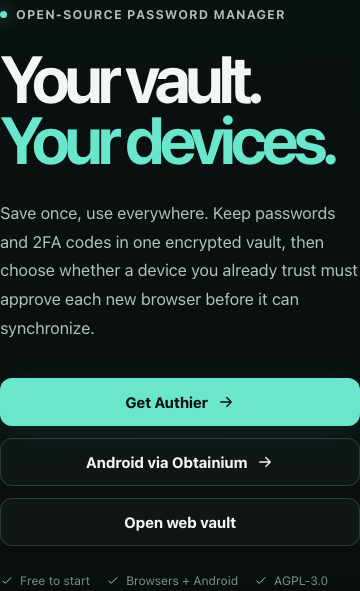
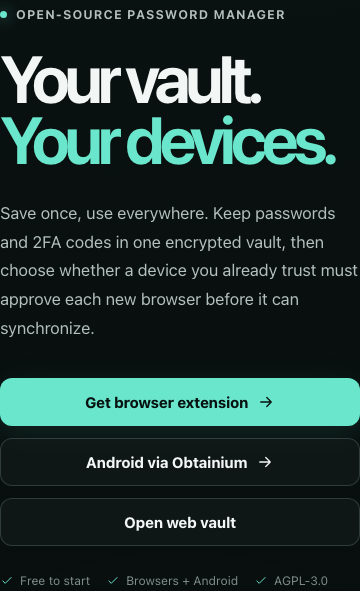
Clarify browser extension download buttons

Changed region(s): [[0.2444, 0.6701, 0.7028, 0.7005], [0.7333, 0.6701, 0.7639, 0.7005]]

diff --git a/web-extension/tests/ui-preview/androidUpdates.spec.ts b/web-extension/tests/ui-preview/androidUpdates.spec.ts
@@ -7,6 +7,13 @@ test('links the homepage hero, platform list and final call to action to Obtaini
   await page.setViewportSize({ width: 1440, height: 1100 })
   await page.goto('/?scenario=android-landing')
   const landing = page.frameLocator('iframe')
+  for (const selector of ['.hero-actions', '.header-actions']) {
+    await expect(
+      landing
+        .locator(selector)
+        .getByRole('link', { name: 'Get browser extension' })
+    ).toHaveAttribute('href', '/download#browsers')
+  }
   for (const selector of ['.hero-actions', '.signal-inner', '.cta-actions']) {
     await expect(
       landing.locator(selector).getByRole('link', { name: /Android/ })
@@ -39,6 +46,7 @@ test('offers the configured Obtainium setup on desktop and mobile', async ({
   await page.setViewportSize({ width: 1440, height: 1000 })
   await page.goto('/?scenario=android-updates')
   const download = page.frameLocator('iframe')
+  await expect(download.locator('#browsers .browser-card')).toHaveCount(3)
   await expect(
     download.getByRole('heading', { name: 'Your vault, kept up to date.' })
   ).toBeVisible()
